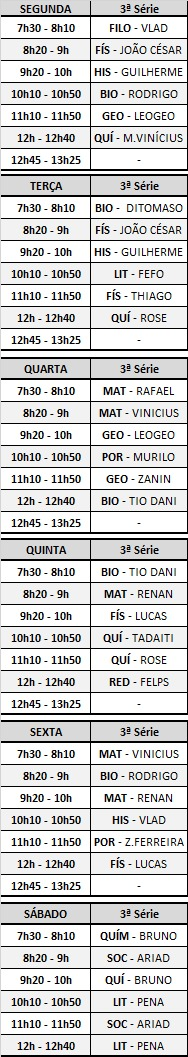
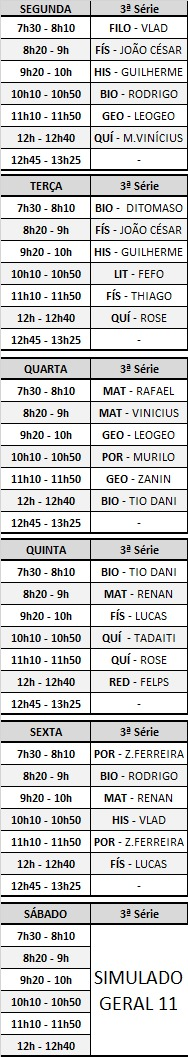
22.08

diff --git a/script.js b/script.js
@@ -3,8 +3,8 @@ let tarefas = [
     ['Tarefa Bruno II', 'qui', '(Ap. 6 - M. 32 - Pág. 170)', '(631)'],
     ['Tarefa Ariad', 'soc', '(Ap. 5 - M. 14 - Pág. 281) ' , '(261, 266, 271, 280)'],
     ['Tarefa Pena I', 'lit', '(Ap. 6 - M. 33 - Pág. 181)', '(643, 644, 649, 653, 654)'],
-    ['Tarefa Pena II', 'lit', '(Ap. 6 - M. 34 - Pág. 184)', '(661, 662, 663, 666, 667)'],
-
+    
+    //['Tarefa Pena II', 'lit', '(Ap. 6 - M. 34 - Pág. 184)', '(661, 662, 663, 666, 667)'],
     //['Tarefa Vlad', 'his', '(Ap. 6 - M. 16 - Pág. 83)', '(301, 303, 306, 308, 310, 311, 312, 315, 317, 319)'],
     //['Tarefa Zé Ferreira', 'gra', '(Ap. 6 - M. 33 e 34 - Pág. 146)', '(651, 654, 658, 661, 662, 667, 677, 680)'],
     //['Tarefa Lucas', 'fis', '(Ap. 6 - M. 32 - Pág. 61)', '(621, 622, 626, 629, 632, 636)'],
@@ -45,7 +45,7 @@ const coordsHorario = [
     [asp1, 357, dim.aulas[0], dim.aulas[1]], //quarta
     [asp1, 538, dim.aulas[0], dim.aulas[1]], //quinta
     [asp1, 720, dim.aulas[0], dim.aulas[1]], //sexta
-    [asp1, 903, dim.aulas[0], dim.aulas[1]], //sabado
+    [asp1, 903, dim.aulas[0], dim.aulas[1] - 3], //sabado
 
     //plantoes
     [asp1, -1, dim.plantoes[0], dim.plantoes[1]], //segunda
